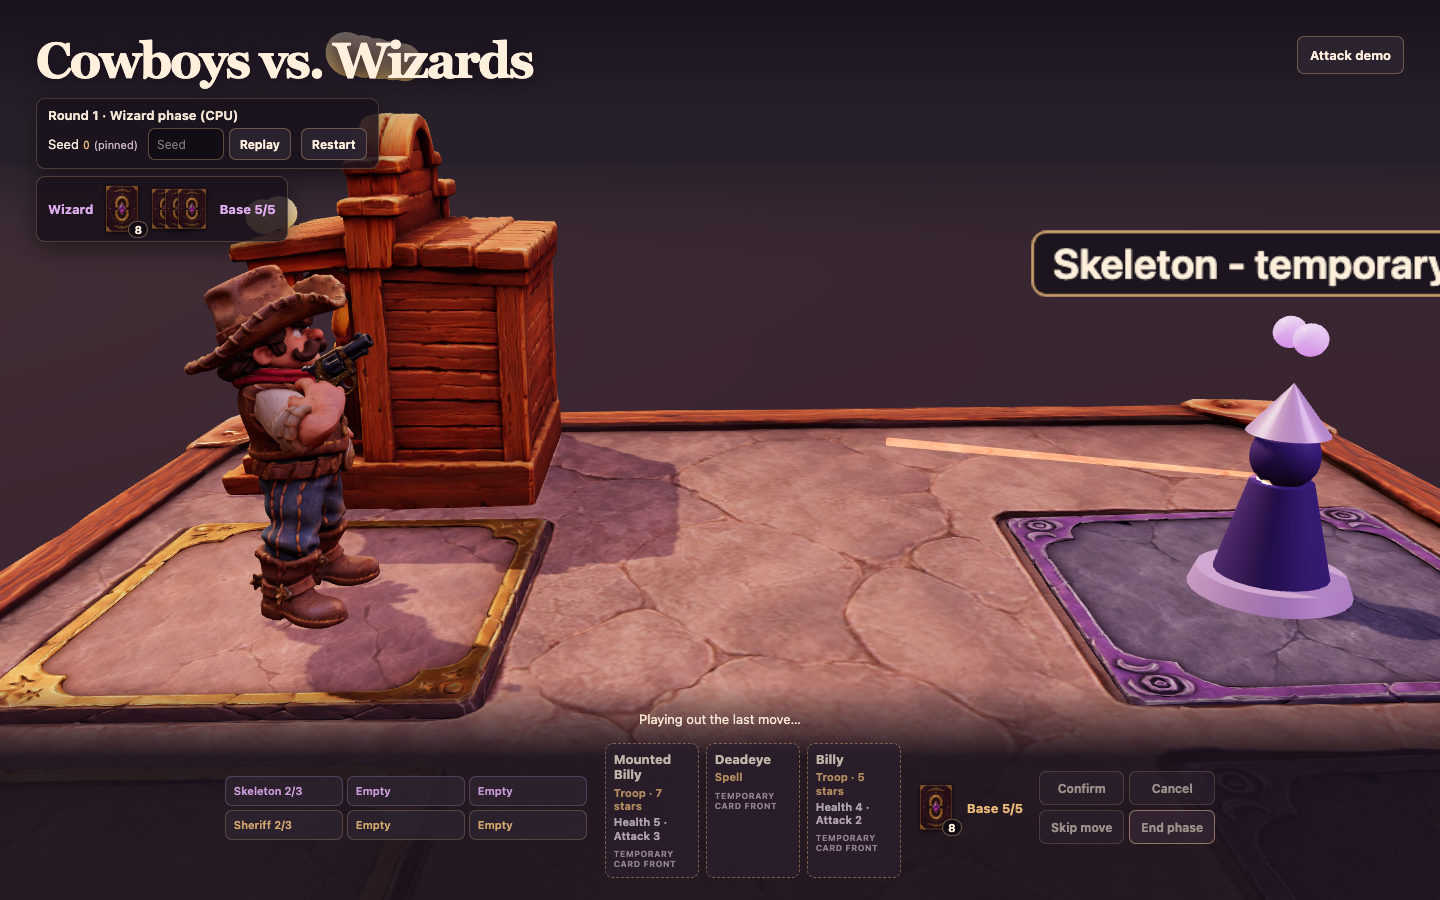
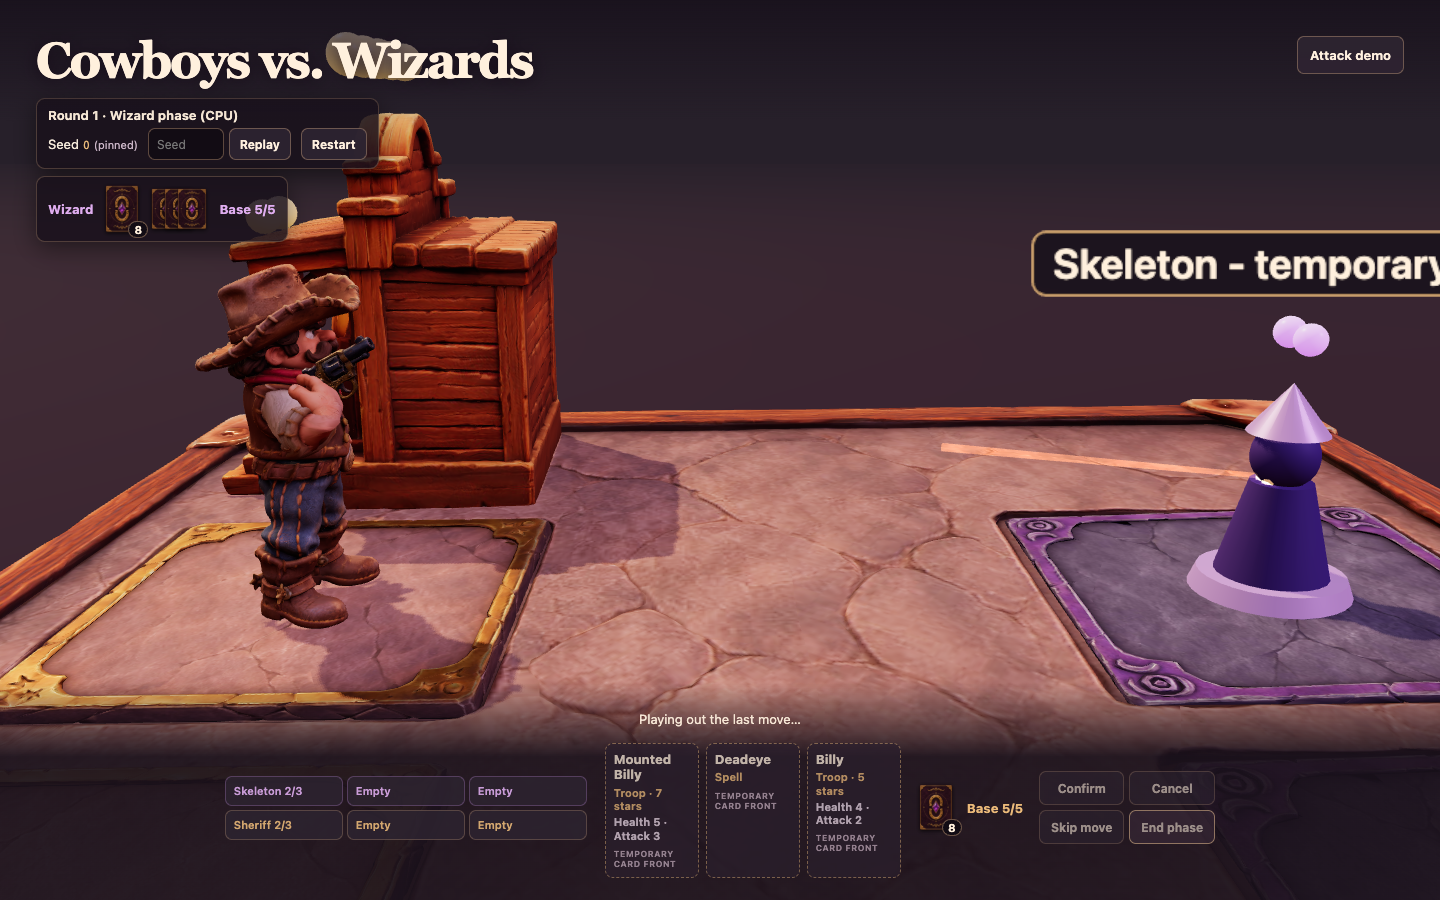
Check the Sheriff's motion against the Lucca references and fix what they flag
Shot at 0.80 s instead of 0.95 s, a 12 degree lean into the shot, a free-fall
landing that ends in the rest pose, and no pose jump between idle and cues.
Adds a test for the reference targets and re-captures seed 0 in Chrome.

diff --git a/src/render/sheriff.js b/src/render/sheriff.js
@@ -17,9 +17,12 @@ export const SHERIFF_HEIGHT = 1.62;
 // Turned to face the Wizards, like Billy.
 export const SHERIFF_YAW = Math.PI;
 // Draw, fire and recover: the shot leaves at `shot`, the target is hit at `impact`.
-export const SHERIFF_SHOT = Object.freeze({grab: .34, aimed: .8, shot: .95, impact: 1.04, holstered: 1.6, end: 1.85});
+// The shot falls within 0.8 s of the start, the reference's bound for a readable strike.
+export const SHERIFF_SHOT = Object.freeze({grab: .29, aimed: .68, shot: .8, impact: .89, holstered: 1.36, end: 1.58});
 // Summon: the boots touch the tile at `impact`, the Sheriff is upright at `end`.
 export const SHERIFF_LANDING = Object.freeze({impact: 350, end: 900});
+// The fall is free fall for the whole of `impact`, taking one world unit as a metre.
+const DROP = .5 * 9.81 * (SHERIFF_LANDING.impact / 1000) ** 2;
 
 const HOLSTERED = [1.38, -.15, .066];
 const REVOLVER_SIZE = .27;
@@ -30,9 +33,9 @@ const HOLSTER_WRIST = [-.25, .485, 0];
 const AIM_WRIST = [-.168, .6, .22];
 // [second, right wrist goal, elbow bend]
 const DRAW = [
-  [0, REST_WRIST, 0], [.3, HOLSTER_WRIST, .55], [.42, HOLSTER_WRIST, .55], [.62, [-.24, .53, .1], .8],
-  [.8, AIM_WRIST, .5], [.95, [-.166, .604, .222], .5], [1.02, [-.176, .668, .15], .62], [1.26, [-.172, .6, .2], .5],
-  [1.6, HOLSTER_WRIST, .55], [1.85, REST_WRIST, 0],
+  [0, REST_WRIST, 0], [.25, HOLSTER_WRIST, .55], [.35, HOLSTER_WRIST, .55], [.52, [-.24, .53, .1], .8],
+  [.68, AIM_WRIST, .5], [.8, [-.166, .604, .222], .5], [.86, [-.176, .668, .15], .62], [1.06, [-.172, .6, .2], .5],
+  [1.36, HOLSTER_WRIST, .55], [1.58, REST_WRIST, 0],
 ];
 
 function arm(keys, t) {
@@ -59,17 +62,25 @@ function holster({actor, gun, holster: at}) {
   gun.holder.rotation.set(...HOLSTERED);
 }
 
-// Idle: slow breathing and a small sway. `seconds` is any running clock.
+// What the idle adds to the rest pose, for breath and sway from -1 to 1.
+const breathing = (breath, sway) => ({
+  spine: [.012 * breath, .02 * sway, 0], chest: [.022 * breath, 0, 0], head: [-.02 * breath, .05 * sway, 0],
+  out: .004 * breath, up: .007 * breath,
+});
+const plus = (a, b) => a.map((value, i) => value + b[i]);
+
+// Idle: slow breathing and a small sway. `seconds` counts from the moment the
+// idle began, so it starts in the rest pose every cue ends in.
 export function idleSheriff(piece, seconds) {
   const {actor} = piece;
-  const breath = Math.sin(seconds * 1.9), sway = Math.sin(seconds * .83);
+  piece.breath = Math.sin(seconds * 1.9);
+  piece.sway = Math.sin(seconds * .83);
+  const idle = breathing(piece.breath, piece.sway);
   actor.root.rotation.y = SHERIFF_YAW;
   pose(actor, {
-    spine: [.012 * breath, .02 * sway, 0],
-    chest: [.022 * breath, 0, 0],
-    head: [-.02 * breath, .05 * sway, 0],
-    right: {goal: v(REST_WRIST[0] + .004 * breath, REST_WRIST[1] + .007 * breath, REST_WRIST[2]), bend: 0, roll: [0, 0, 0], follow: true},
-    left: {goal: v(-REST_WRIST[0] - .004 * breath, REST_WRIST[1] + .007 * breath, REST_WRIST[2]), bend: 0, roll: [0, 0, 0], follow: true},
+    spine: idle.spine, chest: idle.chest, head: idle.head,
+    right: {goal: v(REST_WRIST[0] + idle.out, REST_WRIST[1] + idle.up, REST_WRIST[2]), bend: 0, roll: [0, 0, 0], follow: true},
+    left: {goal: v(-REST_WRIST[0] - idle.out, REST_WRIST[1] + idle.up, REST_WRIST[2]), bend: 0, roll: [0, 0, 0], follow: true},
     legs: legs(actor, 0),
   });
   holster(piece);
@@ -81,8 +92,8 @@ export function landSheriff(piece, ms) {
   const {actor} = piece, {impact, end} = SHERIFF_LANDING;
   const fall = Math.min(1, ms / impact);
   const since = (ms - impact) / (end - impact);
-  // Knees give on contact, then push back up with a small overshoot.
-  const crouch = ms < impact ? .2 * fall : .2 + .5 * pulse(since, 0, .16, .8);
+  // Knees give on contact, then push back up to the rest pose.
+  const crouch = ms < impact ? .2 * fall : .2 * (1 - ease(.25, 1, since)) + .5 * pulse(since, 0, .16, .8);
   const settle = ms < impact ? 0 : pulse(since, 0, .16, .8);
   const flare = ms < impact ? fall : 1 - ease(0, .55, since);
   actor.root.rotation.y = SHERIFF_YAW;
@@ -96,23 +107,27 @@ export function landSheriff(piece, ms) {
     legs: legs(actor, crouch),
   });
   holster(piece);
-  return {height: 1.5 * (1 - fall * fall), scale: Math.max(.001, ease(0, .3, fall))};
+  return {height: DROP * (1 - fall * fall), scale: Math.max(.001, ease(0, .3, fall))};
 }
 
 // Draw, fire and recover at second t, turned by `turn` radians toward the
 // target and aiming at `aim`, a world point.
 export function drawSheriff(piece, t, turn, aim) {
   const {actor, gun} = piece, {grab, aimed, shot, holstered, end} = SHERIFF_SHOT;
-  const anticipate = pulse(t, .02, .3, .66), kick = pulse(t, shot, shot + .06, 1.3);
-  const level = ease(grab + .08, aimed, t) * (1 - ease(1.3, holstered, t));
-  actor.root.rotation.y = SHERIFF_YAW + turn * ease(.1, .6, t) * (1 - ease(1.4, end, t));
+  const anticipate = pulse(t, .02, .26, .56), kick = pulse(t, shot, shot + .06, shot + .33);
+  const level = ease(grab + .07, aimed, t) * (1 - ease(1.1, holstered, t));
+  // Whatever the idle was doing when the cue began fades out over the first 0.2 s.
+  const carry = 1 - ease(0, .2, t), idle = breathing((piece.breath ?? 0) * carry, (piece.sway ?? 0) * carry);
+  const right = arm(DRAW, t);
+  right.goal.add(v(idle.out, idle.up, 0));
+  actor.root.rotation.y = SHERIFF_YAW + turn * ease(.1, .5, t) * (1 - ease(1.2, end, t));
   pose(actor, {
-    // Sinks and coils toward the holster, then squares up behind the gun arm.
-    spine: [.1 * anticipate + .05 * level - .12 * kick, -.2 * anticipate + .24 * level, 0],
-    chest: [.06 * anticipate - .16 * kick, -.1 * anticipate + .2 * level, 0],
-    head: [.08 * anticipate + .05 * kick, .3 * anticipate - .42 * level, 0],
-    right: arm(DRAW, t),
-    left: {goal: v(-REST_WRIST[0] - .05 * level + .02 * kick, REST_WRIST[1] + .03 * anticipate + .02 * kick, REST_WRIST[2] - .09 * level), bend: .4 * level, roll: [0, 0, 0], follow: true},
+    // Sinks and coils toward the holster, then squares up and leans in behind the gun arm.
+    spine: plus(idle.spine, [.1 * anticipate + .13 * level - .12 * kick, -.2 * anticipate + .24 * level, 0]),
+    chest: plus(idle.chest, [.06 * anticipate + .08 * level - .16 * kick, -.1 * anticipate + .2 * level, 0]),
+    head: plus(idle.head, [.08 * anticipate - .12 * level + .05 * kick, .3 * anticipate - .42 * level, 0]),
+    right,
+    left: {goal: v(-REST_WRIST[0] - idle.out - .05 * level + .02 * kick, REST_WRIST[1] + idle.up + .03 * anticipate + .02 * kick, REST_WRIST[2] - .09 * level), bend: .4 * level, roll: [0, 0, 0], follow: true},
     legs: legs(actor, .26 * anticipate + .1 * level - .05 * kick),
   });
   holster(piece);
@@ -121,7 +136,7 @@ export function drawSheriff(piece, t, turn, aim) {
   gun.holder.position.lerp(grip(actor, "right"), ease(grab, grab + .1, t) * (1 - ease(holstered - .1, holstered, t)));
   gun.holder.rotation.set(mix(HOLSTERED[0], -.03, level) - .55 * kick, HOLSTERED[1] * (1 - level), HOLSTERED[2] * (1 - level));
   // On the target from the end of the draw until the shot has left.
-  const onTarget = ease(aimed - .12, aimed, t) * (1 - ease(shot + .02, shot + .08, t));
+  const onTarget = ease(aimed - .1, aimed, t) * (1 - ease(shot + .02, shot + .08, t));
   if (onTarget > 0) {
     const toward = actor.root.worldToLocal(aim.clone()).sub(gun.holder.position).normalize();
     gun.holder.quaternion.slerp(new T.Quaternion().setFromUnitVectors(FORWARD, toward), onTarget);

diff --git a/tests/match/sheriff.test.js b/tests/match/sheriff.test.js
@@ -13,7 +13,7 @@ import { createController } from "../../src/match/controller.js";
 import { createMatchBoard } from "../../src/render/match-board.js";
 import { CUE_TIMES, withCues } from "../../src/render/cues.js";
 import { grip } from "../../src/render/rig.js";
-import { SHERIFF_HEIGHT, SHERIFF_LANDING, SHERIFF_SHOT, idleSheriff } from "../../src/render/sheriff.js";
+import { SHERIFF_HEIGHT, SHERIFF_LANDING, SHERIFF_SHOT, drawSheriff, idleSheriff, landSheriff } from "../../src/render/sheriff.js";
 
 const models = await localModels();
 const idOf = (name) => Object.values(CARDS).find((card) => card.name === name).id;
@@ -77,7 +77,7 @@ test("the summon lands the Sheriff on the tile at impact and keeps the boots pla
   assert.deepEqual(cue, { ...SHERIFF_LANDING });
   const sheriff = board.piece("cowboy", 0), top = board.stage.tiles[0].top;
   run(scheduler, cue.impact / 2);
-  assert.ok(sheriff.body.position.y > .5, "still in the air");
+  assert.ok(sheriff.body.position.y > .3, "still in the air");
   assert.equal(sheriff.acting, true);
   run(scheduler, cue.impact);
   let lowestHips = Infinity;
@@ -102,7 +102,7 @@ test("draw, fire, recover: the revolver is in the hand and on the target at the 
   const target = { kind: "troop", side: "wizard", slot: 0, cardId: idOf("Skeleton") };
   const contact = board.targetPoint(target);
   const cue = withCues(board).attack({ attacker: { side: "cowboy", slot: 0, cardId: sheriff.cardId }, target });
-  assert.deepEqual(cue, { impact: 1040, end: 1850 });
+  assert.deepEqual(cue, { impact: 890, end: 1580 });
   assert.deepEqual(cue, { ...CUE_TIMES.sheriff });
   const hand = () => sheriff.gun.holder.position.distanceTo(grip(sheriff.actor, "right"));
   const named = (name) => board.effects.children.filter((mesh) => mesh.name === name && mesh.visible);
@@ -135,6 +135,77 @@ test("draw, fire, recover: the revolver is in the hand and on the target at the 
   assert.equal(sheriff.actor.root.rotation.y, Math.PI);
   assert.equal(board.effects.children.length, 0);
   assert.equal(scheduler.pending(), 0);
+});
+
+// Targets from docs/character-animation-plan.md and the Lucca references it
+// names (character-clips.md sections 5 and 6b), taking one world unit as a metre.
+test("reference targets: poses join within 1 mm, planted boots do not drift, nothing goes under the tile, the shot reads", async () => {
+  const { board } = await setup([{ cardId: idOf("Sheriff"), health: 3 }, null, null], [{ cardId: idOf("Skeleton"), health: 3 }, null, null]);
+  const sheriff = board.piece("cowboy", 0), top = board.stage.tiles[0].top;
+  const { actor, gun } = sheriff, { rig } = actor;
+  const aim = board.targetPoint({ kind: "troop", side: "wizard", slot: 0 });
+  const joints = [rig.head, rig.chest, rig.pelvis, ...rig.sides.flatMap((side) => [side.hand, side.fore, side.foot])];
+  const snapshot = () => {
+    sheriff.root.updateMatrixWorld(true);
+    return [...joints.map((bone) => bone.getWorldPosition(new T.Vector3())), gun.holder.getWorldPosition(new T.Vector3())];
+  };
+  const apart = (a, b) => Math.max(...a.map((point, i) => point.distanceTo(b[i])));
+  const position = actor.body.geometry.getAttribute("position"), point = new T.Vector3();
+  const lowest = () => {
+    let y = Infinity;
+    for (let i = 0; i < position.count; i++) y = Math.min(y, actor.body.getVertexPosition(i, point).applyMatrix4(actor.body.matrixWorld).y);
+    return y;
+  };
+
+  // Every cue starts in the pose the idle is in, and ends in the pose the idle starts from.
+  idleSheriff(sheriff, 0);
+  const rest = snapshot(), planted = soles(sheriff);
+  idleSheriff(sheriff, 2.3);
+  const breathing = snapshot();
+  assert.ok(apart(breathing, rest) > .002, "the idle moves");
+  drawSheriff(sheriff, 0, 0, aim);
+  assert.ok(apart(snapshot(), breathing) < .001, `draw start is ${apart(snapshot(), breathing)} from the idle pose`);
+  drawSheriff(sheriff, SHERIFF_SHOT.end, 0, aim);
+  assert.ok(apart(snapshot(), rest) < .001, `draw end is ${apart(snapshot(), rest)} from rest`);
+  landSheriff(sheriff, SHERIFF_LANDING.end);
+  assert.ok(apart(snapshot(), rest) < .001, `landing end is ${apart(snapshot(), rest)} from rest`);
+
+  // Planted boots and the floor, sampled at 60 per second through idle, landing and draw.
+  const frames = [];
+  for (let s = 0; s <= 8; s += 1 / 60) frames.push(() => idleSheriff(sheriff, s));
+  for (let ms = SHERIFF_LANDING.impact; ms <= SHERIFF_LANDING.end; ms += 1000 / 60) frames.push(() => landSheriff(sheriff, ms));
+  idleSheriff(sheriff, 0);
+  for (let t = 0; t <= SHERIFF_SHOT.end; t += 1 / 60) frames.push(() => drawSheriff(sheriff, t, 0, aim));
+  let drift = 0, under = 0;
+  for (const frame of frames) {
+    frame();
+    drift = Math.max(drift, apart(soles(sheriff), planted));
+    under = Math.max(under, top - lowest());
+  }
+  assert.ok(drift < .001, `boot soles drift ${drift}`);
+  assert.ok(under < .005, `${under} under the tile`);
+
+  // The fall is free fall from rest: after t seconds the body has dropped 0.5 g t^2,
+  // and it reaches the tile exactly at the impact time.
+  const total = SHERIFF_LANDING.impact / 1000;
+  for (const ms of [0, 100, 250, SHERIFF_LANDING.impact]) {
+    const expected = .5 * 9.81 * (total ** 2 - (ms / 1000) ** 2);
+    assert.ok(Math.abs(landSheriff(sheriff, ms).height - expected) < 1e-9, `height at ${ms} ms`);
+  }
+
+  // Reading: the shot comes within 0.8 s, the muzzle travels at least 0.35 heights
+  // from rest, and the chest leans at least 10 degrees at the shot.
+  assert.ok(SHERIFF_SHOT.shot <= .8);
+  idleSheriff(sheriff, 0);
+  sheriff.root.updateMatrixWorld(true);
+  const muzzleAtRest = gun.tip.getWorldPosition(new T.Vector3());
+  drawSheriff(sheriff, SHERIFF_SHOT.shot, 0, aim);
+  sheriff.root.updateMatrixWorld(true);
+  const travel = gun.tip.getWorldPosition(new T.Vector3()).distanceTo(muzzleAtRest) / SHERIFF_HEIGHT;
+  assert.ok(travel >= .35, `muzzle travels ${travel} heights`);
+  const lean = T.MathUtils.radToDeg(new T.Vector3(0, 1, 0).applyQuaternion(rig.chest.getWorldQuaternion(new T.Quaternion())).angleTo(new T.Vector3(0, 1, 0)));
+  assert.ok(lean >= 10, `chest leans ${lean} degrees`);
+  console.log(JSON.stringify({ soleDrift: drift, underTile: under, muzzleTravelHeights: travel, chestLeanDegrees: lean }));
 });
 
 test("seed 0: the Sheriff's shot takes the Skeleton's orb at the cue's impact time, from the Engine's damage event", async () => {

diff --git a/scripts/sheriff-capture.js b/scripts/sheriff-capture.js
@@ -21,7 +21,8 @@ async page => {
   const problems = [];
   page.on("pageerror", (error) => problems.push(String(error)));
   page.on("console", (message) => {
-    if (message.type() === "error" && !message.text().includes("favicon")) problems.push(message.text());
+    // The local file server has no favicon; that 404 is not a page problem.
+    if (message.type() === "error" && !message.location().url.endsWith("/favicon.ico")) problems.push(message.text());
   });
   await page.setViewportSize({width: 1440, height: 900});
   await page.clock.install();
@@ -56,15 +57,15 @@ async page => {
 
   // At seed 0 the Wizard answers with a Skeleton in lane 1 and the clash
   // starts 2760 ms after End phase. The Sheriff's cue: hand on the revolver
-  // at 340 ms, aimed at 800, shot at 950, impact at 1040, holstered at 1600.
+  // at 290 ms, aimed at 680, shot at 800, impact at 890, holstered at 1360.
   const CLASH = 2760;
   const runs = [
     await play("cowboy-0",
-      {"summon-fall": 300, "summon-landing": 440, "idle": 1400},
-      {"windup-reach": CLASH + 300, "windup-aimed": CLASH + 900, "fire-close": CLASH + 960, "recover": CLASH + 1320}),
+      {"summon-fall": 200, "summon-landing": 440, "idle": 1400},
+      {"windup-reach": CLASH + 270, "windup-aimed": CLASH + 760, "fire-close": CLASH + 810, "recover": CLASH + 1150}),
     await play("cowboy-0-wide",
       {},
-      {"before-impact": CLASH + 1000, "impact": CLASH + 1060}),
+      {"before-impact": CLASH + 850, "impact": CLASH + 910}),
     await play("",
       {"board-view": 1400},
       {}),

diff --git a/src/render/match-board.js b/src/render/match-board.js
@@ -238,8 +238,12 @@ export async function createMatchBoard({models, scheduler, makeLabel = makeTextL
       piece.owned.push(piece.actor.body.geometry, piece.actor.body.skeleton);
       // Breathes whenever it is drawn and no cue is posing it. Idle keeps no
       // scheduler entry, so it survives scheduler.advance() and never counts as pending.
+      // The idle clock restarts after each cue, so the idle begins in the pose the cue ended in.
+      let idleFrom = null;
       piece.actor.body.onBeforeRender = () => {
-        if (!piece.acting) idleSheriff(piece, performance.now() / 1000);
+        const now = performance.now() / 1000;
+        if (piece.acting) idleFrom = null;
+        else idleSheriff(piece, now - (idleFrom ??= now));
       };
       body.add(piece.actor.root);
     } else if (rigged) {

diff --git a/src/render/cues.js b/src/render/cues.js
@@ -7,7 +7,7 @@
 //   Wizard attack  a shortened demo staff raise (staffKeys) with the jewel
 //                  glowing, then a violet bolt from the jewel (impact 1.1 s, end 1.6 s)
 //   Sheriff attack its own draw, fire and recover (src/render/sheriff.js) with
-//                  the same muzzle flash, tracer and sparks (impact 1.04 s, end 1.85 s)
+//                  the same muzzle flash, tracer and sparks (impact 0.89 s, end 1.58 s)
 //   token attack   the board's lunge
 //   Deadeye        the leftmost Billy's shot, or a tracer from the Saloon
 //   Singularity    a dark well with a violet ring at the target while the

diff --git a/docs/evidence/fable-sheriff-integration.md b/docs/evidence/fable-sheriff-integration.md
@@ -16,15 +16,15 @@ Not Kiro or Codex work. No game rule, card value or Engine file changed.
   were measured on the mesh (below). The GLB file is unchanged.
 - **Motion** (`src/render/sheriff.js`):
   - **Idle:** slow breathing and a small sway of head, chest and arms.
-  - **Summon landing:** falls 1.5 units, boots touch at 350 ms, knees bend and
-    the body leans in, upright at 900 ms. The orbs appear at 350 ms.
-  - **Draw, fire, recover:** sinks and reaches for the hip (0–0.34 s), draws
-    and levels the revolver (to 0.80 s), holds on the target, fires at 0.95 s,
-    recoils, lowers and holsters by 1.60 s, back to idle at 1.85 s.
+  - **Summon landing:** free fall of 0.60 units, boots touch at 350 ms, knees
+    bend and the body leans in, upright at 900 ms. The orbs appear at 350 ms.
+  - **Draw, fire, recover:** sinks and reaches for the hip (0–0.29 s), draws
+    and levels the revolver (to 0.68 s), holds on the target, fires at 0.80 s,
+    recoils, lowers and holsters by 1.36 s, back to idle at 1.58 s.
 - **Weapon:** the existing `revolver.glb`, hung at the right hip, moved to the
   palm for the draw and turned onto the target before the shot. The muzzle
   flash and tracer start at the revolver's muzzle.
-- **Hit:** the cue returns `{impact: 1040, end: 1850}` to Kiro's Presenter,
+- **Hit:** the cue returns `{impact: 890, end: 1580}` to Kiro's Presenter,
   which already removes the target's orb at the returned impact time from the
   Engine's damage event. Nothing in the renderer computes damage.
 - **Camera for checking a model:** `?closeup=cowboy-0` views one tile from the
@@ -46,22 +46,46 @@ Rig frame: height 1, feet at y = 0, centred in x and z, facing +z.
 | Hands | x 0.31–0.39, y 0.32–0.43, clear of the legs (x ≤ 0.175) |
 | Board height | 1.62 world units; Billy is 1.93, the tile is about 2.3 × 2.07 |
 
+## What the Lucca references changed
+
+I read `character-rig.md` sections 2–5, `character-clips.md` sections 2b, 2c,
+2d, 5 and 6b, and `character-engine.md` section 1. Their tools are not here, so
+I applied the methods and measured with a test. One world unit is taken as a
+metre; the repository does not define the scale.
+
+| Reference rule | Sheriff |
+|---|---|
+| Landmarks are measured on the mesh, never guessed (rig §2) | Joints come from the Blender inspection and height slices above |
+| A melee contact falls within about 0.8 s of the start; a slower strike is a known fault (clips §6b) | Shot moved from 0.95 s to 0.80 s; impact at 0.89 s |
+| The torso leans 10–15° into the strike at contact (clips §6b) | Lean raised from about 3° to 12.0° at the shot |
+| The wind-up moves the weapon at least 0.35 heights from rest (clips §6b) | The muzzle travels 0.51 heights from the hip to the aim |
+| Measure where the weapon points on the event frame (clips §2b) | Barrel within 1.5° of the target on the frame before the shot |
+| A fall obeys g and comes from one physical curve (clips §2b, §2c) | The drop is 0.5 g t² for the whole 350 ms, 0.60 units |
+| A summon ends in the base pose (clips §2c) | The landing ended 0.2 rad short of standing; fixed |
+| Clips start in the same pose within 1 mm (clips §5) | The idle's breath is carried into the draw and faded out; start and end poses are within 1 mm of the idle's |
+| Planted feet do not slip; nothing is under the floor (clips §5) | Sole drift 0.000 units and nothing below the tile over idle, landing and draw at 60 samples per second |
+| The `wrap` gate: fingers must close on the handle, or the fist is declared stylized (rig §3) | Fails: see the export request below |
+
+Not applied: hit-stop and camera shake at contact (clips §6b, engine §2e) would
+belong to the Presenter and the camera, which are outside this task.
+
 ## Checks
 
 - `node --test "tests/game/*.test.js" "tests/match/*.test.js" "tests/assets/*.test.mjs"`:
-  98 passed, 0 failed.
-- `tests/match/sheriff.test.js` (4 new tests, Node, real GLBs, no WebGL):
+  99 passed, 0 failed.
+- `tests/match/sheriff.test.js` (5 new tests, Node, real GLBs, no WebGL):
   - Height 1.62, shorter than Billy, inside the tile, yaw 180°, boot soles
     within 0.02 units of the tile top through the idle, revolver at the hip.
   - Landing: in the air before impact, soles on the tile from 350 ms to
     900 ms while the hips drop more than 0.08 units and return.
   - Shot: revolver at the palm, barrel within 1.5° of the target and ahead of
-    the Sheriff just before 0.95 s; flash and tracer after it; sparks at the
+    the Sheriff just before 0.80 s; flash and tracer after it; sparks at the
     target at impact; holstered, facing forward and nothing pending at the end.
+  - Reference targets: the rows of the table above that carry a number.
   - Seed 0 through Kiro's controller: the Skeleton's third orb goes out
-    1040 ms (± one 8 ms tick) after the Sheriff's draw begins, not before.
-  - Both guards were broken on purpose once (no hip compensation, no aiming)
-    and the tests failed as expected.
+    890 ms (± one 8 ms tick) after the Sheriff's draw begins, not before.
+  - Three guards were broken on purpose once (no hip compensation, no aiming,
+    no idle carry) and the tests failed as expected.
 - `tests/match/orbs.test.js`: the token expectations for the Sheriff were
   removed; the other three tokens are still checked.
 - `npm run check`: passed. `node scripts/audit-assets.mjs assets/models`:
@@ -76,15 +100,15 @@ CPU answer with a Skeleton in the same lane. The page reported no errors.
 
 | Capture (`docs/evidence/sheriff-integration/`) | Moment | Lane 1 shown by the page |
 |---|---|---|
-| `summon-fall.png` | 300 ms after confirm | empty |
+| `summon-fall.png` | 200 ms after confirm | empty |
 | `summon-landing.png` | 440 ms, knees bent | Sheriff 3 of 3 |
 | `idle.png` | 1.4 s | Sheriff 3 of 3 |
-| `windup-reach.png` | clash + 0.30 s, hand at the hip | Skeleton 3 of 3 |
-| `windup-aimed.png` | clash + 0.90 s, revolver levelled | Skeleton 3 of 3 |
-| `fire-close.png` | clash + 0.96 s, muzzle flash | Skeleton 3 of 3 |
-| `before-impact.png` | clash + 1.00 s, side view, tracer in flight | Skeleton 3 of 3 |
-| `impact.png` | clash + 1.06 s, side view | Skeleton 2 of 3 |
-| `recover.png` | clash + 1.32 s | Skeleton 2 of 3 |
+| `windup-reach.png` | clash + 0.27 s, hand at the hip | Skeleton 3 of 3 |
+| `windup-aimed.png` | clash + 0.76 s, revolver levelled | Skeleton 3 of 3 |
+| `fire-close.png` | clash + 0.81 s, muzzle flash | Skeleton 3 of 3 |
+| `before-impact.png` | clash + 0.85 s, side view, tracer in flight | Skeleton 3 of 3 |
+| `impact.png` | clash + 0.91 s, side view | Skeleton 2 of 3 |
+| `recover.png` | clash + 1.15 s | Skeleton 2 of 3 |
 | `board-view.png` | normal board camera after the summon | Sheriff 3 of 3 |
 
 The Sheriff shows 2 of 3 from clash + 0.4 s because the Skeleton token's
@@ -95,8 +119,8 @@ lunge lands first.
 Placement, scale, facing and the three motions work with this mesh. Two
 things do not hold up in the close view:
 
-1. **The gun hand cannot close.** The right hand is one fused, open, relaxed
-   shape. In `windup-aimed.png` the revolver sits on top of the hand and the
+1. **The gun hand cannot close** (the reference's `wrap` gate). The right hand
+   is one fused, open, relaxed shape. In `windup-aimed.png` the revolver sits on top of the hand and the
    fingers hang open under it; there is no trigger finger. The bands cannot
    curl fingers that share one surface.
    **Export needed:** the same Sheriff in the same pose with the right hand
